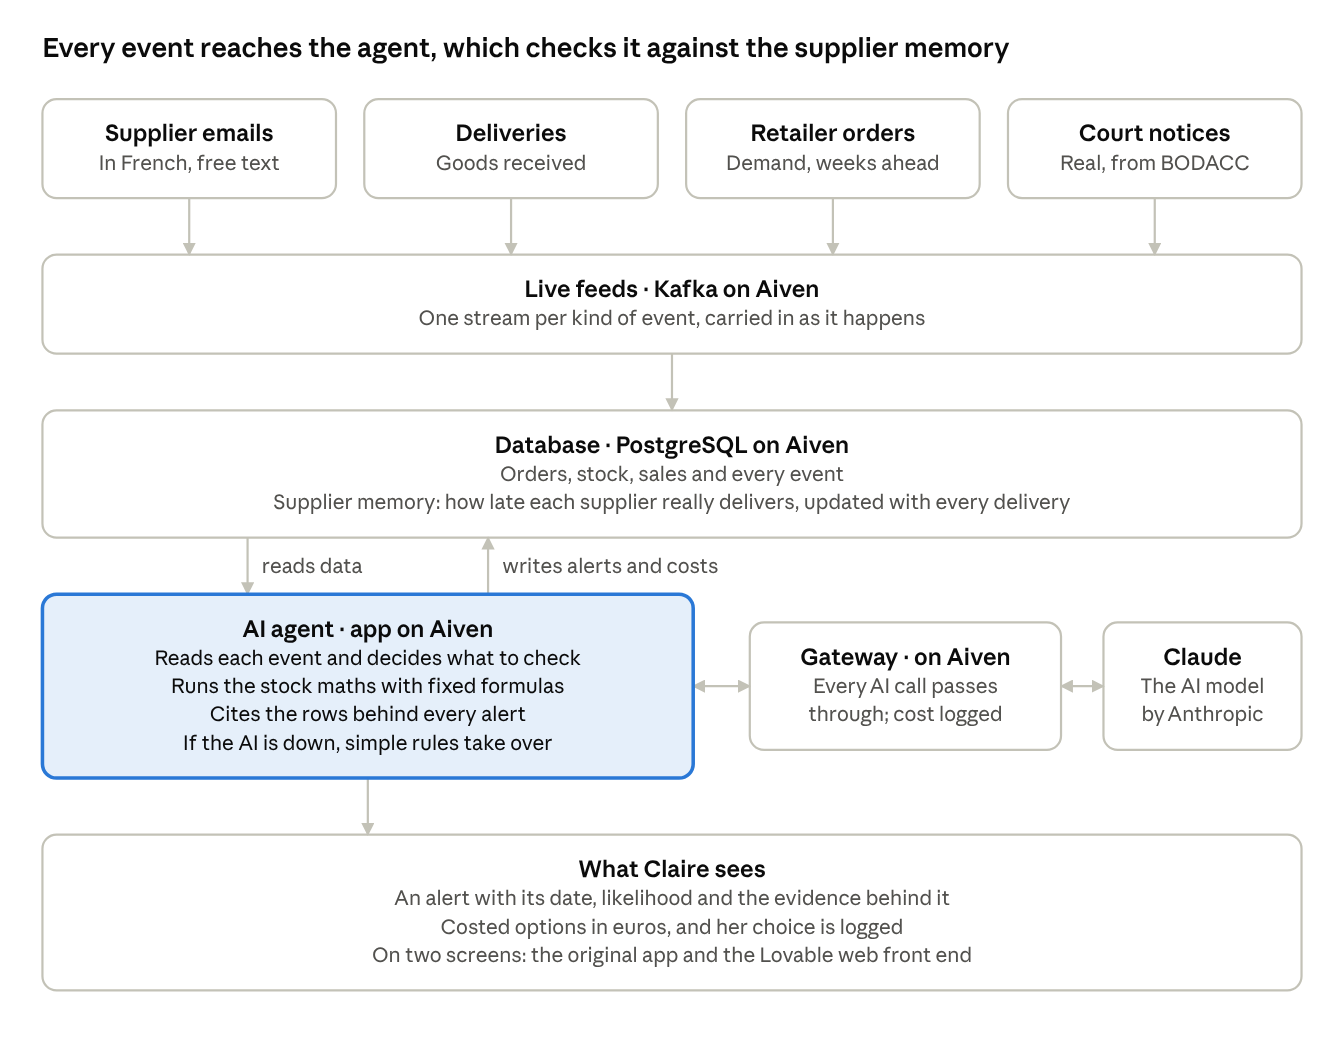
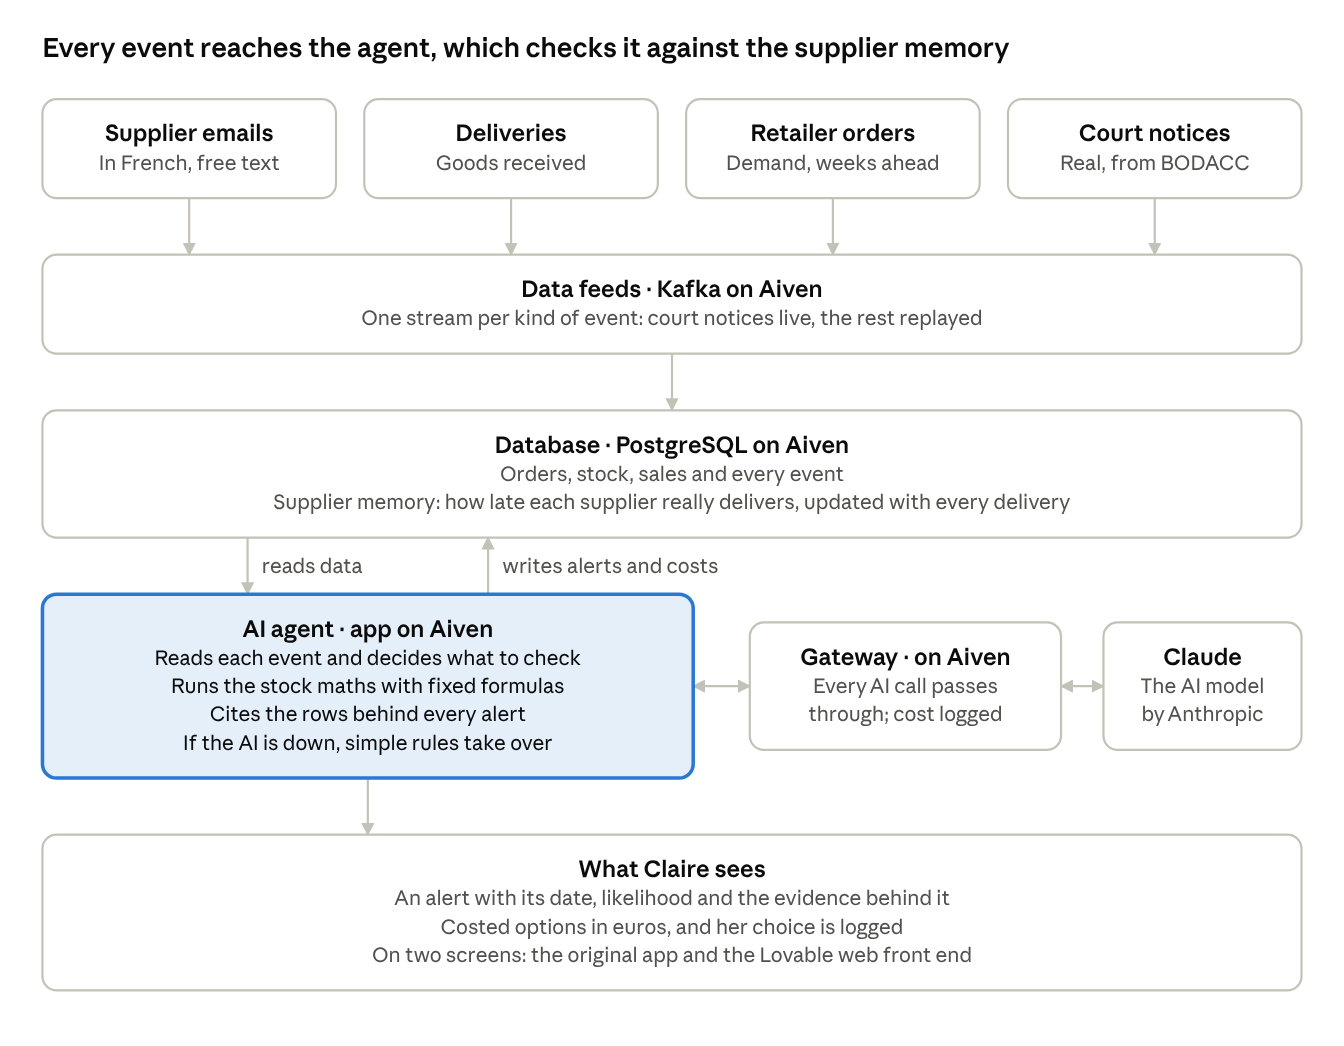
Post-mortem: review fixes across the documents
Say what was live and what was replayed (only the court notices were
live; emails, deliveries and order books were replayed through Kafka),
name the sessions as the decision log does (kickoff, prep), drop a
deploy claim the record does not support, and give both midday design
snapshots the same note pointing to the final numbers.

Changed region(s): [[0.375, 0.2447, 0.7188, 0.3365], [0.2812, 0.2753, 0.3438, 0.3365]]

diff --git a/post-mortem/piloting-claude-code.md b/post-mortem/piloting-claude-code.md
@@ -32,7 +32,7 @@ I spent the three days before the event (19 to 21 October) on setup that would w
 | A close reading of the brief, written down: the agent must fail without its data, deploying on Aiven is required, design and first users are judged | Kept in a one-page brief | Gave every session the same yardstick, and is why the flattering comparison was caught at 10:55 |
 | My own idea, a supplier watchdog for payment runs, plus five questions for judging other teams' ideas | A pitch skeleton and a filter that fit on one page | I could say yes to LaunchPilot quickly, and the watchdog's data sources (French insolvency notices and company records) became LaunchPilot's real-data feed |
 | Accounts on the required platform: a database, credits claimed, and Aiven's tools connected to Claude Code | Claude Code ran a real query on our database | Sessions could inspect live data from the first minute |
-| A starter app (health check, database check, a Claude call) and a deploy script for Aiven's hosting | The full round trip passed locally against the real database | The app was live at 10:47; the same script deployed five apps that day |
+| A starter app (health check, database check, a Claude call) and a deploy script for Aiven's hosting | The full round trip passed locally against the real database | The app was live at 10:47, and the same script handled its redeploys all day |
 | Platform notes: every command, quirk and trap found while setting up | One file, with a deploy runbook at the top | Sessions read the notes instead of rediscovering traps, and added new ones as they hit them |
 | One secrets file for the whole workspace, linked into each repo and never committed | Every repo reads keys from it | No key reached a public repo all day |
 | A phone-friendly arrival checklist: credits in order, questions for the hosts, the deploy steps | Readable on a phone at 08:00 | Kept logins out of the first hour, which belonged to forming the team |
@@ -53,8 +53,8 @@ I ran four long-lived sessions, one per area of the work, and about ten short on
 
 | Session | What it owned | What it produced |
 | --- | --- | --- |
-| App | The agents, the forecasting engine, the data generator, the proof | The fair comparison, live email reading, the cost panel, the date fix |
-| Streams | Data coming in and every deploy on Aiven | The Kafka pipeline, the court-notice watch, company records, the AI gateway |
+| Kickoff (the app) | The agents, the forecasting engine, the data generator, the proof | The fair comparison, live email reading, the cost panel, the date fix |
+| Prep (data streams) | Data coming in and every deploy on Aiven | The Kafka pipeline, the court-notice watch, company records, the AI gateway |
 | Test data | Making the made-up brand hold together | Rebalanced purchase history, retailer order books, the pitch script |
 | Front end | The API between Lovable and the live data | Live data in the Lovable preview, the supplier-health screen |
 
@@ -74,7 +74,7 @@ The whole of [`AGENTS.md`](../AGENTS.md) fits on one screen. Its rules:
 
 - **Every task had a "done when".** "Proof tab shows the fair comparison; README numbers replaced" can be checked; "improve the proof" cannot.
 - **Priorities and a cut order up front.** Must, Should or Nice on every task, and a written list of what to cut first if time ran short.
-- **One contract between sessions working in parallel.** The streams session wrote the data feeds and the app session read them, both working from one page of field names that the log names as the single source of truth.
+- **One contract between sessions working in parallel.** The prep session wrote the data feeds and the kickoff session read them, both working from one page of field names that the log names as the single source of truth.
 - **A reason with every decision I made,** so a session that later wondered why could find it in the log instead of reopening it.
 
 ### How I checked them
@@ -108,7 +108,7 @@ Every stumble below was a piloting problem, not a coding one: work that was righ
 
 | What happened | What it cost | What I would do next time |
 | --- | --- | --- |
-| The app session changed the headline numbers at 14:30; the slide image committed at 14:51 still had the old ones | Until 16:54 the slide we submitted showed numbers we had already replaced | One file holds the numbers, every slide and document reads from it, and a number change triggers a board task listing everything to refresh |
+| The kickoff session changed the headline numbers at 14:30; the slide image committed at 14:51 still had the old ones | Until 16:54 the slide we submitted showed numbers we had already replaced | One file holds the numbers, every slide and document reads from it, and a number change triggers a board task listing everything to refresh |
 | Every session and both front ends shared one database | A newly started API reset the demo twice around lunch, and a session's click landed in my own demo run | A database per working area; sessions only read the demo database |
 | Outputs multiplied: two decks, a design doc frozen at 13:00, submission drafts in a fourth place | Stale versions sat beside current ones, and I had to find out which was which after the event | One owner per output, and superseded versions archived the moment they are replaced |
 | I reopened the freeze after 14:00 to add more catches to the demo | Building ran past the planned 15:00 freeze, and one of the new catches was cut again at 15:03 | Reopening the freeze is a logged decision that names an equal cut |

diff --git a/post-mortem/postmortem.md b/post-mortem/postmortem.md
@@ -10,7 +10,7 @@ Three things carried the day:
 
 - **We chose a fair test over a flattering one.** Our first comparison was against a spreadsheet nobody would defend. We swapped it for an attentive human planner, and still won 118 to 92 out of 120 predictions.
 - **One rulebook let many workers run at once.** Each AI session owned its own folders, wrote every decision in one shared log, and claimed tasks on one shared board. Nobody overwrote anybody.
-- **Nothing on stage could break the demo.** If the AI, the database or the live data feeds go down, the app falls back to rules and recorded data, and says so on screen.
+- **Nothing on stage could break the demo.** If the AI, the database or the data feeds go down, the app falls back to rules and recorded data, and says so on screen.
 
 ## Everything from the day
 
@@ -51,7 +51,7 @@ The submission carries a three-minute demo video, one pitch slide and the public
 5. **The memory learns.** A late pump delivery lands during the demo, and the supplier's real lead time visibly moves from 62 to 63 days.
 6. **Real data.** A real court notice puts a cardboard-box maker into receivership. Mapped, with a label, to our fictional gift-box supplier, it shows about 1.07 M€ more at risk if that supplier's open order doesn't arrive.
 7. **Proof.** Across 30 randomly generated test worlds, LaunchPilot dates 118 of 120 stockouts within a week; the careful planner dates 92. Cost and speed per event are on screen.
-8. **Live and recorded.** We say out loud what runs live (the AI agents, the data feeds, the court notices) and what we built ourselves (the brand and its history).
+8. **Live and recorded.** We say out loud what runs live (the AI agents and the court notices) and what we built ourselves and replay (the brand, its history, its emails and deliveries).
 
 There are two ways to see it: the original app Imène's kit came with, and a new web front end the team designed in Lovable. Both read the same live database.
 
@@ -72,7 +72,7 @@ The app was live on Aiven by 10:47, under two hours after kickoff; everything af
 | 11:34 | Every AI call now goes through our own gateway on Aiven, which logs what each one costs. |
 | 11:41 | Screens and agent switch to English; supplier emails and court notices stay in French. |
 | 12:16 | The agent reads supplier emails live, and each delivery teaches the supplier memory. |
-| 12:30 | Three live data feeds flow end to end. |
+| 12:30 | Three data feeds flow end to end through Kafka: real court notices, plus replayed emails and deliveries. |
 | 12:39 | A real court notice is mapped, with a label, to our fictional gift-box supplier. |
 | 13:28 | Proof chart and cost-per-event panel go live. |
 | 13:40 | The submission form arrives: the video is required, and the slide is all a finalist shows on stage. |
@@ -128,7 +128,7 @@ One more rule: the live app had to work after every change. Risky work happened 
 - **An honest proof.** The prototype compared LaunchPilot with a spreadsheet nobody reads. Tested fairly, a planner who reads every email scored better than LaunchPilot did. By 11:08 we had rebuilt the test against that careful planner and made the supplier memory plan with each supplier's typical delay and a likelihood. It now wins fairly, 118 against 92 out of 120.
 - **Integrity under time pressure.** Twice we gave up a better-looking result. A date fix at 14:30 raised the best option's risk from 194 k€ to 437 k€, and we kept the honest number. At 15:03 we dropped a capacity catch because we had set the numbers to make it happen.
 - **Real public data, handled with care.** The court notices are real, but we show no names of people, never say anything about the real company's delivery times, and label the link to our fictional supplier everywhere.
-- **Sponsor fit that does real work.** Five apps run on Aiven's hosting, data lives in its database, live feeds flow through its streaming service, and every AI call passes through a gateway on Aiven that logs its cost.
+- **Sponsor fit that does real work.** Five apps run on Aiven's hosting, data lives in its database, data feeds flow through its streaming service, and every AI call passes through a gateway on Aiven that logs its cost.
 - **Design and code in parallel.** Lovable showed live data from 13:39, so design choices were made against the real numbers, not placeholders.
 
 ## What was hard and what broke

diff --git a/post-mortem/design-in-plain-words.md b/post-mortem/design-in-plain-words.md
@@ -2,7 +2,7 @@
 
 22 October 2026 · Alex Beverage
 
-> A snapshot written at midday on the hackathon day, kept as it was. Some numbers changed that afternoon: the final ones are in the [postmortem](postmortem.md).
+> A snapshot from around 13:00 on the hackathon day, kept as it was. The headline numbers changed at 14:30: the final ones are in the [postmortem](postmortem.md).
 
 LaunchPilot warns a cosmetics brand weeks ahead that a packaging part will run out before a product launch. It explains why, and prices the ways out in euros. This page skips the technical detail; the [technical design](design-technical.md) has it.
 

diff --git a/post-mortem/design-technical.md b/post-mortem/design-technical.md
@@ -1,6 +1,8 @@
-# LaunchPilot design
+# LaunchPilot technical design
 
-2026-10-22 · Alex Beverage
+22 October 2026 · Alex Beverage
+
+> A snapshot from around 13:00 on the hackathon day, kept as it was. The headline numbers changed at 14:30: the final ones are in the [postmortem](postmortem.md). The [plain-words version](design-in-plain-words.md) skips the technical detail.
 
 ## Status of this document
 
